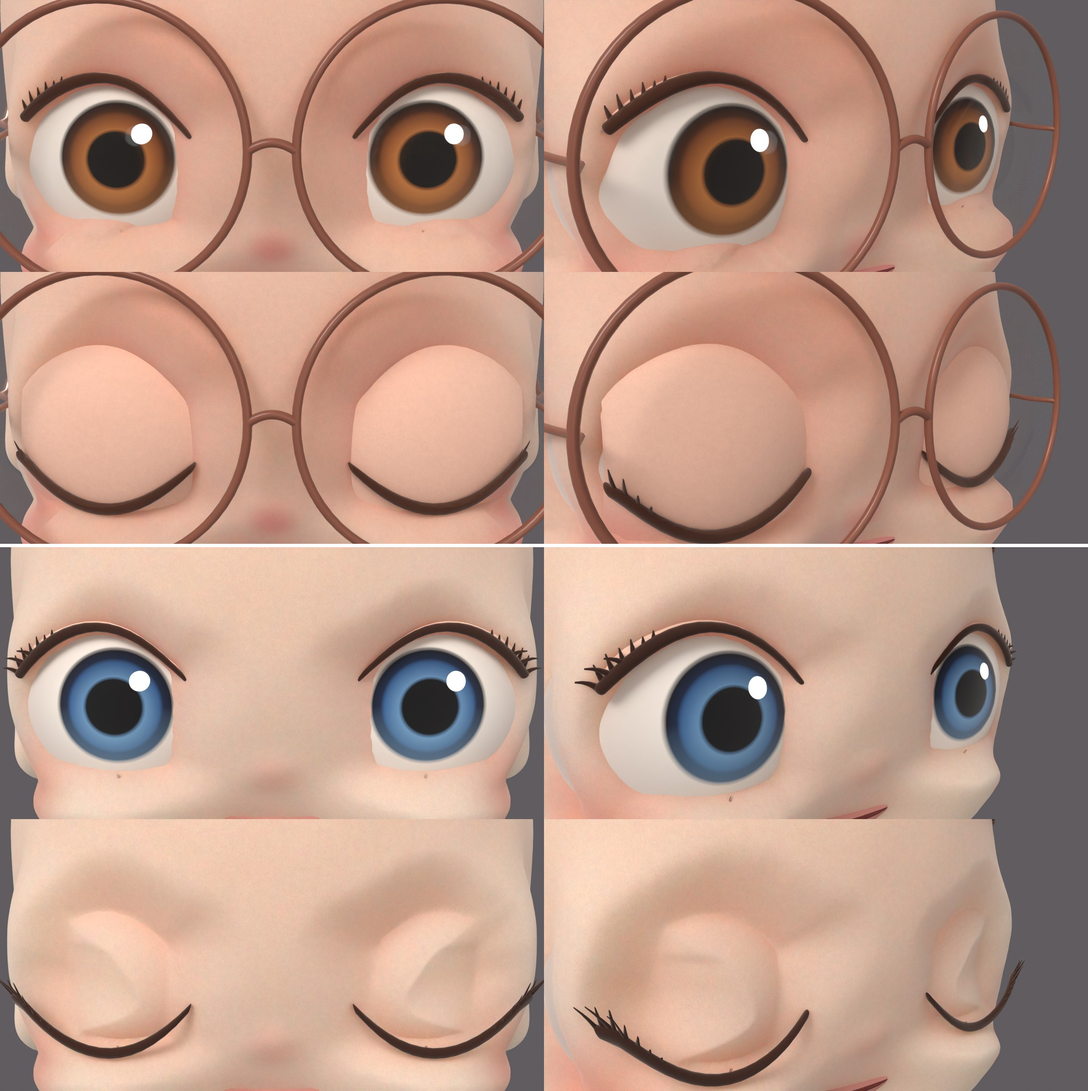
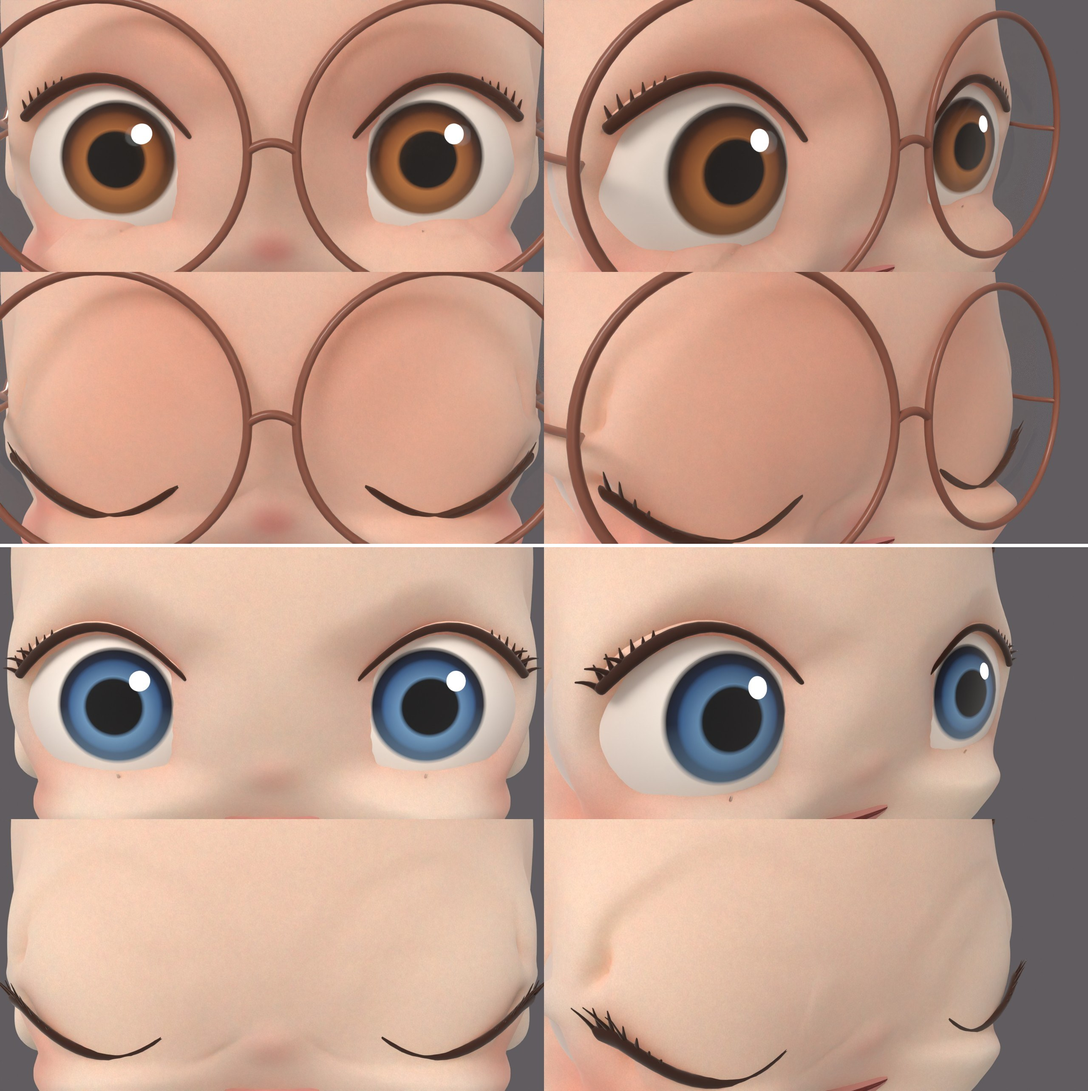
T-156: final sheets with socket.closed_fill (both girls), README
Claude-Session: https://claude.ai/code/session_01NPjxeLCXhZEPNhYQkrAed1

diff --git a/docs/evaluation/characters/T-156/README.md b/docs/evaluation/characters/T-156/README.md
@@ -145,7 +145,7 @@ In tolerance: before 5/28, after 11/28. left / right = image left / right (the v
 - `*/eyes_100.jpg`: 100 % eye crops, open, front and 3/4 (T-137 build, T-156, references), Cycles 8 spp.
 - `*/eyes_closed_100.jpg`: 100 % crops, Blink, front (top T-137 build, bottom T-156), 8 spp.
 - `*/strict.jpg`: strict sheets, Cycles 16 spp.
-- `preview.jpg`: the cheap previews of the final builds (4 spp, hair and clothes hidden; top open, bottom Blink; front and 3/4).
+- `preview.jpg`: cheap previews of the closed-fill trials (auburn at `extra_m` -4 mm, third girl final; 4 spp, hair and clothes hidden; top open, bottom Blink; front and 3/4).
 
 ## Not reached by an override, and what it would need
 - **H/W is 0.90 / 0.90, not 0.95, and the iris D/W 0.75 / 0.76.** The reference irises are taller than wide (T-150
@@ -166,6 +166,7 @@ In tolerance: before 5/28, after 11/28. left / right = image left / right (the v
   with a lower mound a speck of eyeball showed at the outer corners (182 px at `extra_m` -1.5 mm, 7 px now).
   New skin keys (`Blink`, `Blink.L/R`, the winks and their `@75`) are added to `body_skin`, so the candidate's
   shape-key list differs from the published versions'. Squint / Laugh / Smile do not close fully and are unchanged.
+- **Auburn, 3/4, near eye.** With the lower cover a thin pale strip of lid shows above the outer end of the liner.
 - **Lashes** are flat separate strands and read slightly comb-like at 100 %.
 - **Oblique (G02) targets: not reached** (11/28). Yaw is not matched to G02 (-35 deg, the eye-crop view), the lens is
   not modelled, and the far eye is too wide.
